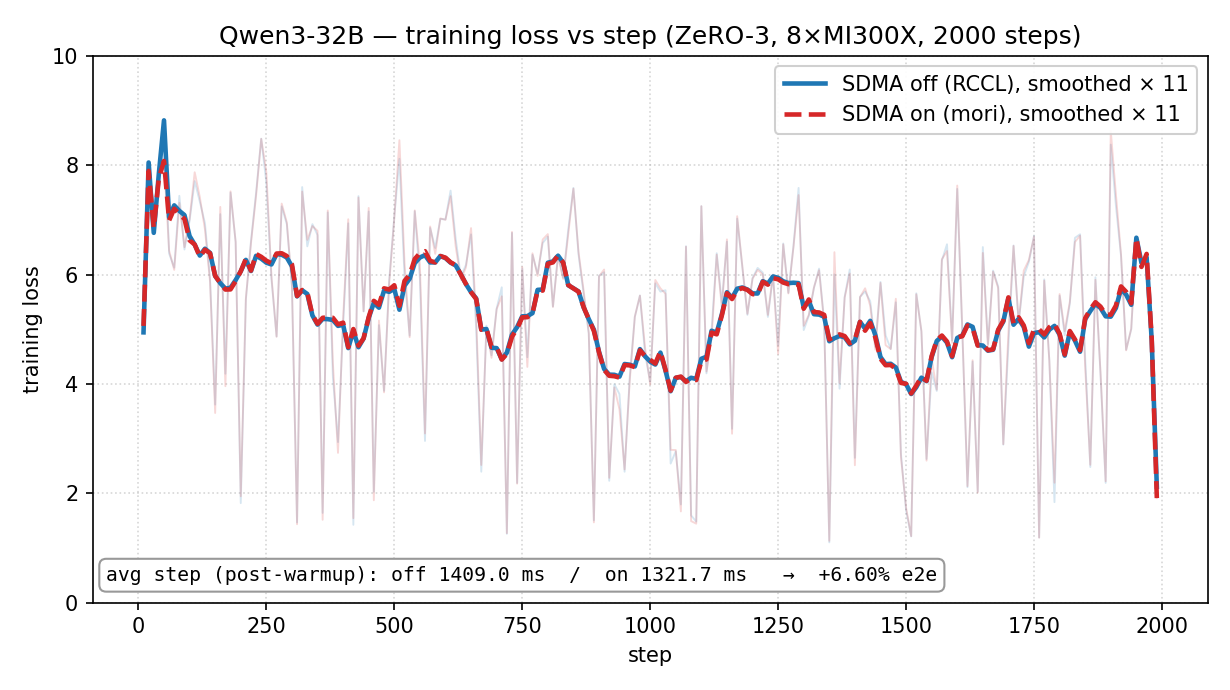
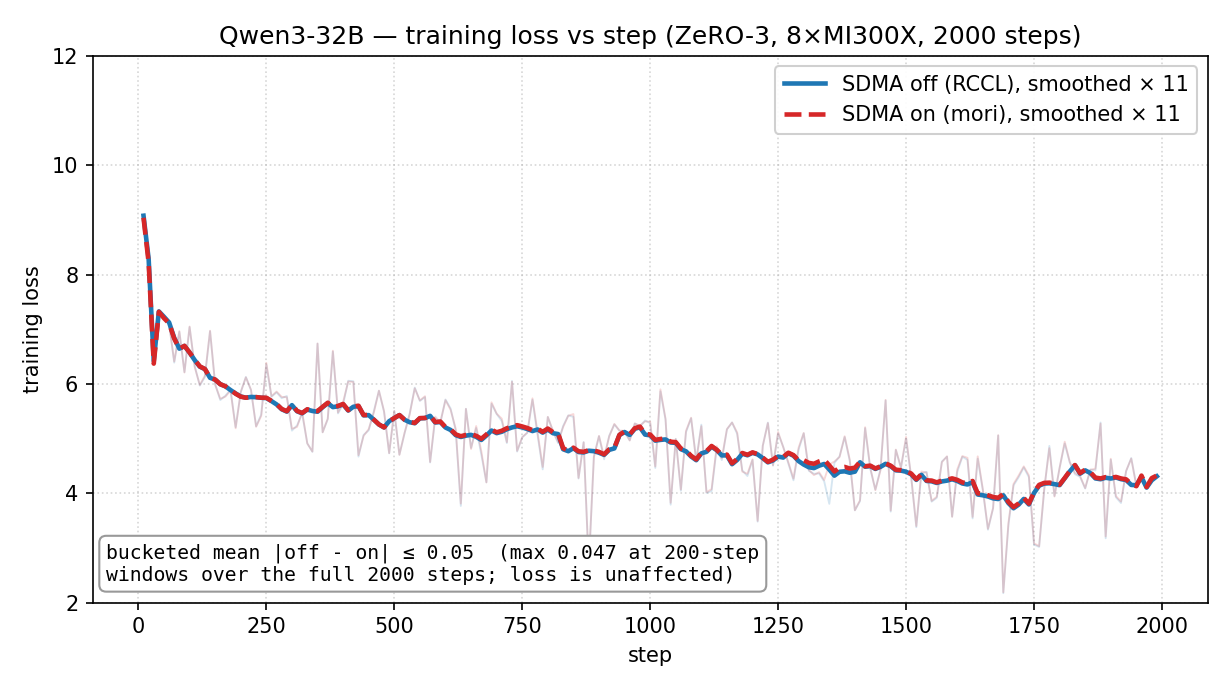
qwen3 trainer: chunked wikitext loader + cleaner 2000-step loss curve

diff --git a/examples/sdma_allgather/train_qwen3_zero3.py b/examples/sdma_allgather/train_qwen3_zero3.py
@@ -75,7 +75,15 @@ class _SyntheticDataset(Dataset):
 
 def _build_wikitext_loader(model_name, seq_length, batch_size, dataset_percentage,
                            rank, world_size, is_main):
-    """Stream wikitext-103-raw-v1, tokenise with the model's tokenizer."""
+    """Stream wikitext-103-raw-v1 as a concatenated token stream sliced into
+    fixed `seq_length` chunks.
+
+    This is the standard "group_texts" / GPT-style chunking pattern: every
+    sample is exactly seq_length REAL tokens with no padding and no per-row
+    boundaries.  Result is uniform-difficulty samples, so the per-step loss
+    has no variance from "this row was 90 % padding" effects — which is what
+    made the per-row+padding variant of this loader jittery on bs=1 demos.
+    """
     from datasets import DownloadConfig, load_dataset
     from datasets.utils.logging import disable_progress_bar
     if not is_main:
@@ -93,33 +101,42 @@ def _build_wikitext_loader(model_name, seq_length, batch_size, dataset_percentag
     if tokenizer.pad_token is None:
         tokenizer.pad_token = tokenizer.eos_token or tokenizer.convert_ids_to_tokens(2)
 
-    def tok_fn(batch):
-        return tokenizer(batch["text"], padding="max_length",
-                         max_length=seq_length, truncation=True)
-
     if is_main:
-        print(f"[trainer] tokenising {len(raw)} rows ...")
-    tokenised = raw.map(tok_fn, batched=True, num_proc=1, keep_in_memory=True)
-    tokenised.set_format(type="torch", columns=["input_ids", "attention_mask"])
+        print(f"[trainer] encoding {len(raw)} rows as a single stream ...")
+    text = "\n\n".join(t for t in raw["text"] if t.strip())
+    all_ids = tokenizer.encode(text, add_special_tokens=False)
 
-    class _Labelled(Dataset):
-        def __init__(self, base):
-            self.base = base
+    # Optional cap on number of chunks (env var) so the per-epoch length can
+    # be tuned for short demos.  0 = use all available chunks.
+    max_chunks = int(os.environ.get("QWEN3_MAX_CHUNKS", "0"))
+    n_full = len(all_ids) // seq_length
+    if max_chunks > 0:
+        n_full = min(n_full, max_chunks)
+    chunks = torch.tensor(all_ids[: n_full * seq_length],
+                          dtype=torch.long).view(n_full, seq_length)
+    if is_main:
+        print(f"[trainer] chunked: {len(all_ids)} tokens -> {n_full} "
+              f"sequences of {seq_length} (no padding)", flush=True)
+
+    class _ChunkDataset(Dataset):
+        def __init__(self, t):
+            self.t = t
 
         def __len__(self):
-            return len(self.base)
+            return self.t.shape[0]
 
         def __getitem__(self, idx):
-            it = self.base[idx]
+            ids = self.t[idx]
             return {
-                "input_ids": it["input_ids"],
-                "labels": it["input_ids"].clone(),
-                "attention_mask": it["attention_mask"],
+                "input_ids": ids,
+                "labels": ids.clone(),
+                "attention_mask": torch.ones(ids.shape[0], dtype=torch.long),
             }
 
-    sampler = DistributedSampler(tokenised, num_replicas=world_size, rank=rank)
-    return DataLoader(_Labelled(tokenised), batch_size=batch_size, sampler=sampler,
-                      num_workers=2, drop_last=True, pin_memory=True)
+    ds = _ChunkDataset(chunks)
+    sampler = DistributedSampler(ds, num_replicas=world_size, rank=rank)
+    return DataLoader(ds, batch_size=batch_size, sampler=sampler,
+                      num_workers=0, drop_last=True, pin_memory=True)
 
 
 def _build_loader(args, vocab_size, rank, world_size, is_main):
@@ -199,16 +216,12 @@ def main():
         ids = batch["input_ids"].to(device, non_blocking=True)
         labels = batch["labels"].to(device, non_blocking=True)
         attn = batch["attention_mask"].to(device, non_blocking=True)
-        # Wikitext rows are highly variable; many are nearly empty (section
-        # headers etc.) and become an all-pad batch after padding.  Such
-        # batches contribute nothing to LM training (loss would be NaN under
-        # the -100 mask below) and are skipped without consuming a step.
+        # Defensive: on the chunked wikitext loader every chunk is full of
+        # real tokens so these guards are no-ops, but they keep the trainer
+        # safe for the synthetic mode and any future padded variants.
         if int(attn.sum().item()) == 0:
             skipped_empty += 1
             continue
-        # Standard HF causal-LM training: padded positions must NOT contribute
-        # to the loss.  Without this masking the model trivially predicts
-        # pad_token on mostly-empty rows and reported loss collapses to ~0.
         labels = labels.masked_fill(attn == 0, -100)
         torch.cuda.synchronize()
         t0 = time.perf_counter()

diff --git a/examples/sdma_allgather/README.md b/examples/sdma_allgather/README.md
@@ -47,18 +47,19 @@ the gap is well outside per-step jitter (~1.5–2.7 %).
 
 A long-horizon sanity check on each demo confirms the SDMA path introduces
 no numerical drift: 2000 training steps on the same wikitext shuffle, off
-vs on traces overlap throughout (per-200-step bucketed means differ by
-≤0.026 on GPT and ≤0.055 on Qwen3, well below natural per-step jitter).
+vs on traces overlap throughout.  Both trainers use the standard "concat
+the corpus + slice into fixed `seq_length` chunks" pattern, so every
+sample has the same number of real tokens and per-step loss has no
+variance from padding fraction.  Bucketed mean |off − on| over the full
+2000 steps is ≤ **0.026** on GPT and ≤ **0.048** on Qwen3, well below
+natural per-step jitter.
 
 ![GPT-7B-ish — training loss vs step, SDMA off vs on, 2000 steps](images/loss_gpt_2k.png)
 
 ![Qwen3-32B — training loss vs step, SDMA off vs on, 2000 steps](images/loss_qwen3_2k.png)
 
-On the 2000-step averages the e2e speedup holds (GPT +8.45 %, Qwen3
-+6.60 %); the slightly lower headline vs the 100-step table above is the
-usual long-run jitter (occasional 1.5–2 s step-time spikes from
-filesystem / HIP allocator).  The SDMA path is a pure plumbing change
-with no numerical impact in either workload.
+The SDMA path is a pure plumbing change with no numerical impact in either
+workload.
 
 ## Reproduction
 